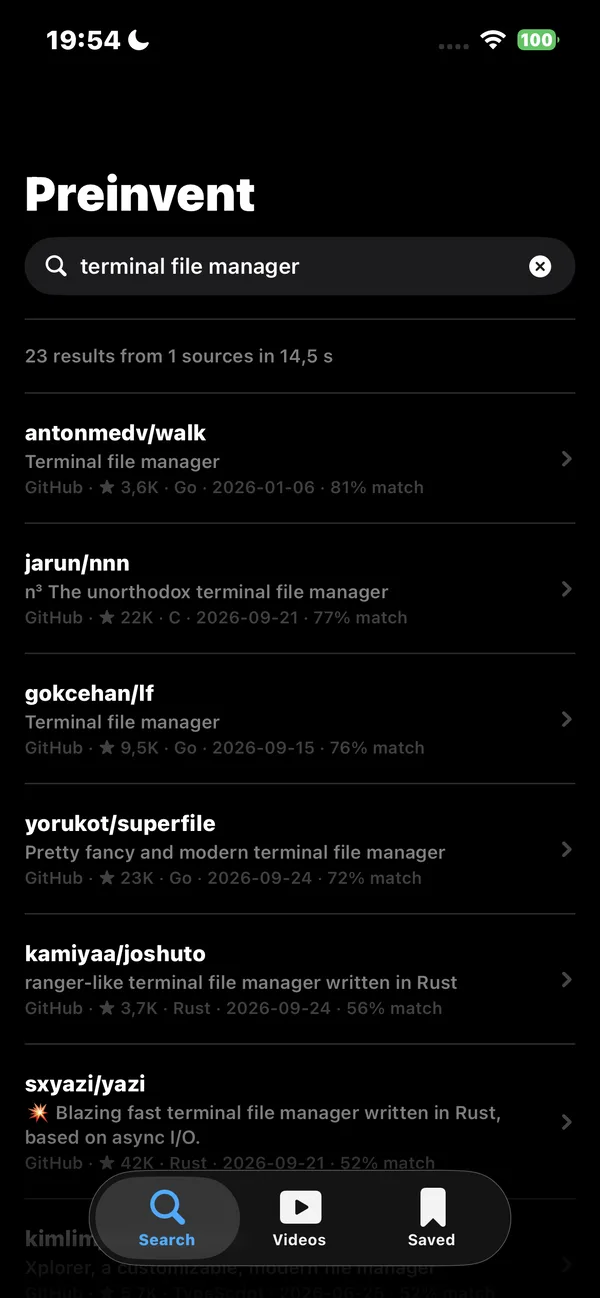
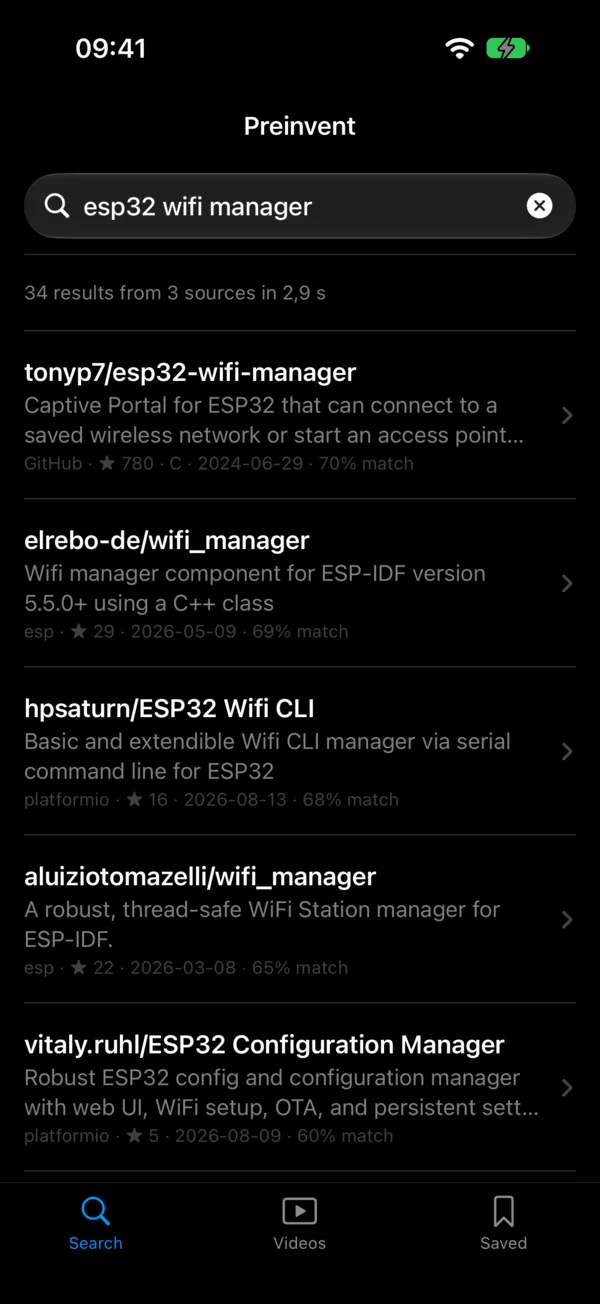
feat(preinvent): iPhone screenshot from the current build, three sources in one search
The earlier capture came from an older build and showed one source. This one shows a search reaching GitHub, the ESP Component Registry and PlatformIO in under three seconds.

diff --git a/preinvent/index.html b/preinvent/index.html
@@ -38,8 +38,8 @@
     <figcaption>Mac: one search, one ranked table.</figcaption>
   </figure>
   <figure class="shot-phone">
-    <img src="img/preinvent-iphone.webp" width="600" height="1298" loading="lazy" decoding="async"
-         alt="The Preinvent iPhone app after a search for terminal file manager: a list of GitHub projects with stars, language and match score.">
+    <img src="img/preinvent-iphone.webp" width="600" height="1304" loading="lazy" decoding="async"
+         alt="The Preinvent iPhone app after a search for esp32 wifi manager: 34 results from GitHub, the ESP Component Registry and PlatformIO, each with stars, date and match score.">
     <figcaption>iPhone: the same engine, on the phone.</figcaption>
   </figure>
 </div>

diff --git a/site.css b/site.css
@@ -94,7 +94,7 @@ footer p { margin: 0 0 .4rem; }
 .shots { display: flex; gap: 1.25rem; align-items: flex-start; margin: 2.5rem 0 1rem; }
 .shots figure { margin: 0; min-width: 0; }
 .shot-mac { flex: 1.418 1 0; }
-.shot-phone { flex: .462 1 0; }
+.shot-phone { flex: .460 1 0; }
 .shots img { border: 1px solid var(--rule); border-radius: 10px; }
 .shot-phone img { border-radius: 14px; }
 @media (max-width: 36rem) {
